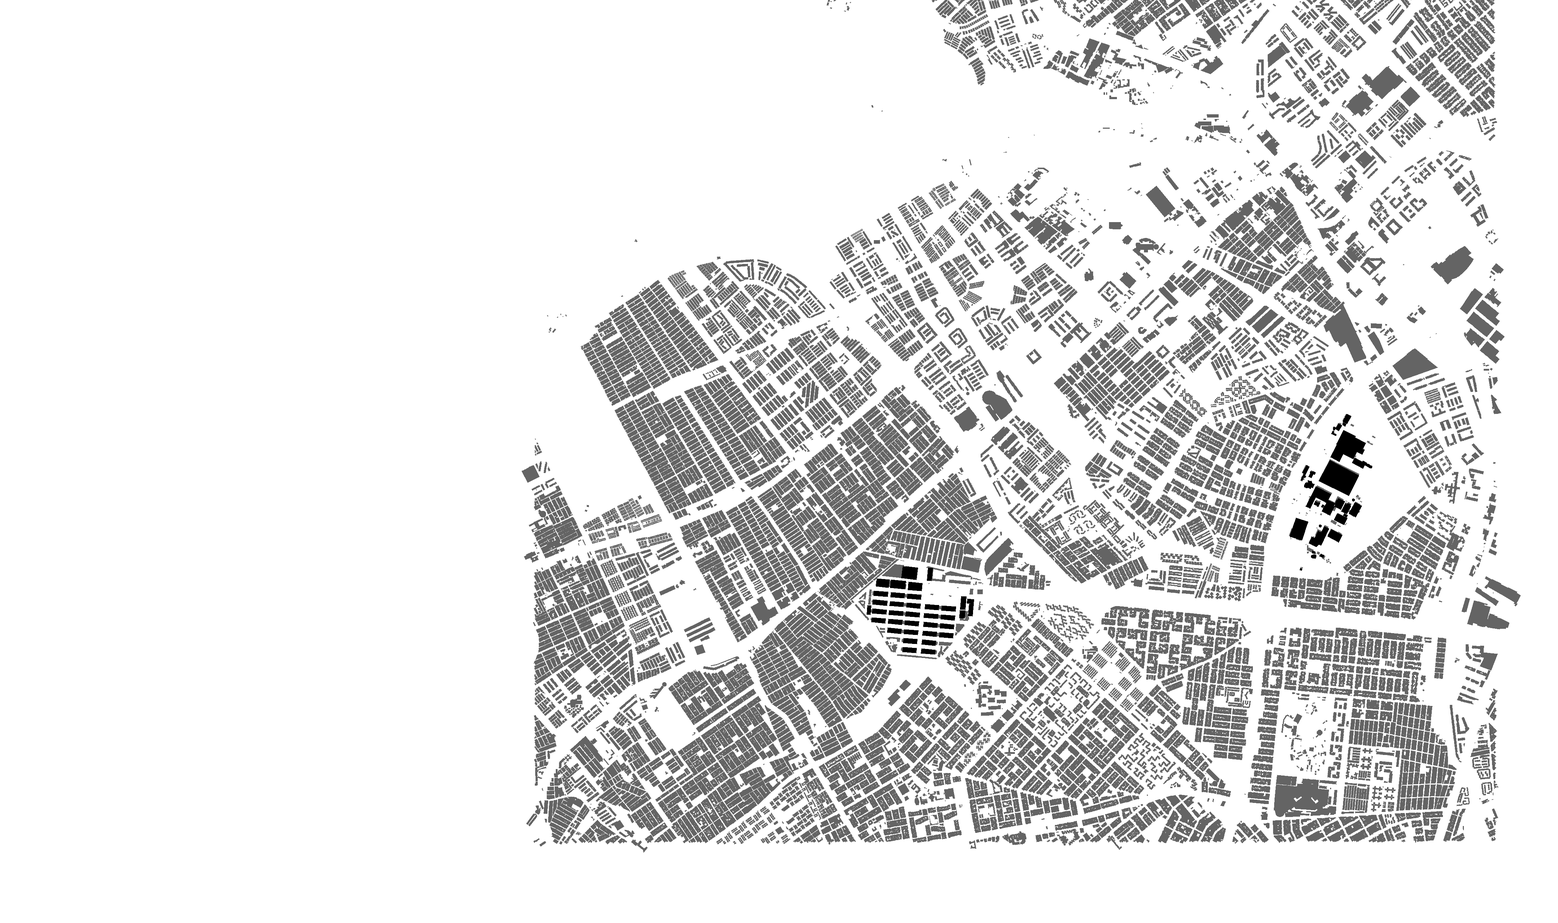
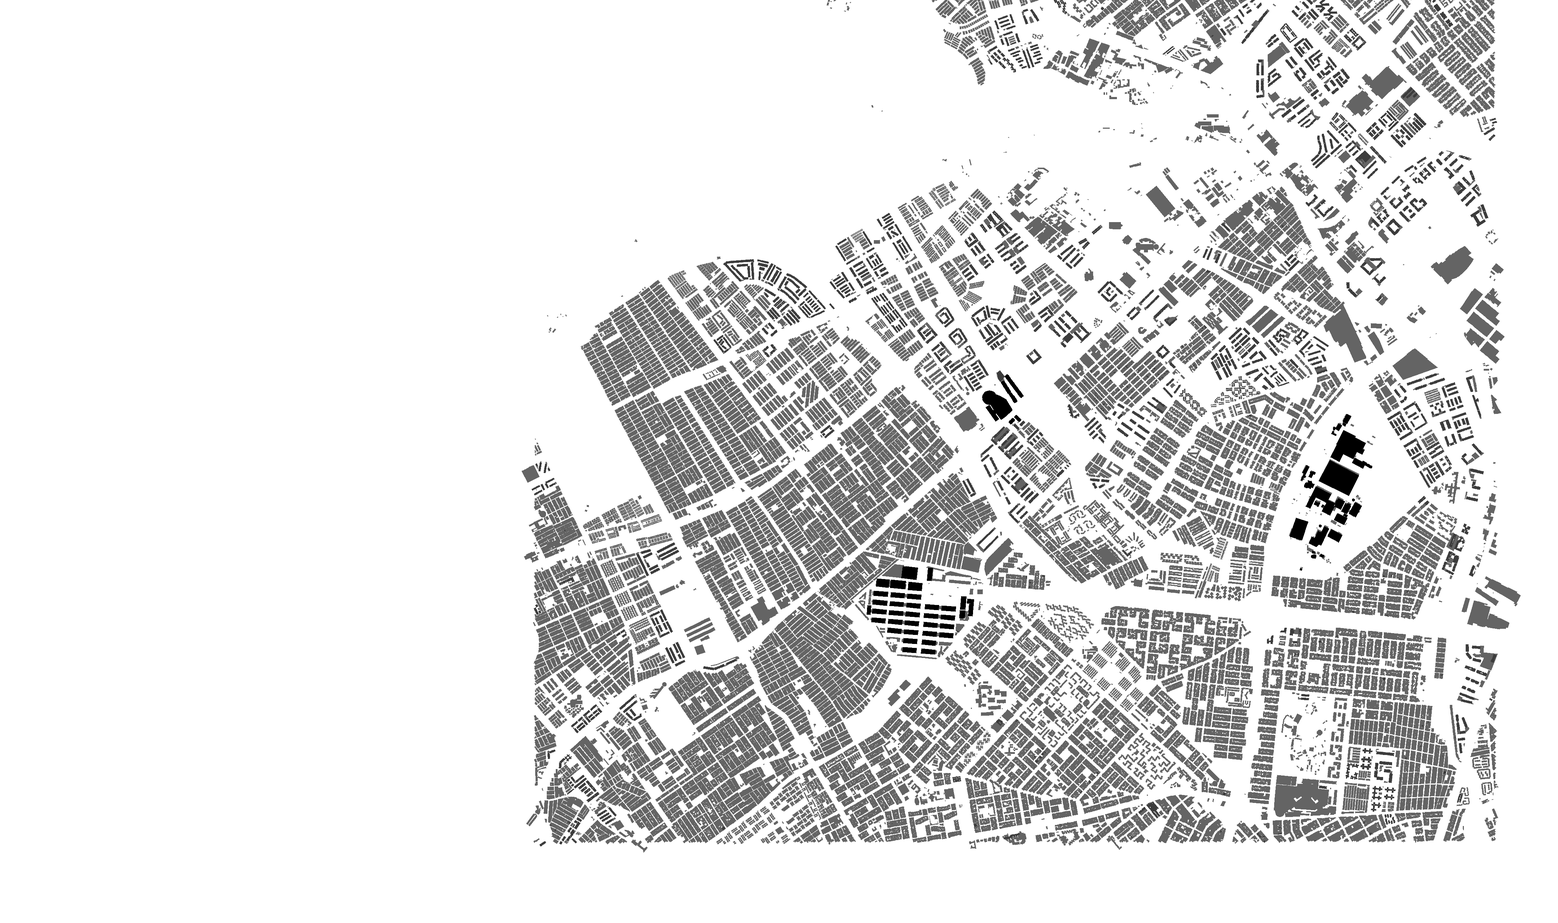
Foto real 3D por defecto (como God's Eye): casas, vias y arboles reales de la malla de Google con su profundidad; de lo propio quedan las torres con huerta, Bavaria, Corabastos y El Tintal; boton para volver al modelo y para prender los arboles modelados; foto base un poco menos saturada; sin huerta

diff --git a/index.html b/index.html
@@ -962,7 +962,7 @@ async function crearMallaGoogle(T) {
         // la cámara (la imagen no cambia: mismo punto en pantalla), así los edificios, carros, árboles y animales propios quedan siempre encima
         .replace('#include <project_vertex>', '#include <project_vertex>\nif (uEmpuje > 0.0) { float dl = max(length(mvPosition.xyz), 1.0); vec4 pE = projectionMatrix * vec4(mvPosition.xyz * (1.0 + uEmpuje / dl), 1.0); gl_Position.z = min(pE.z / pE.w, 0.99999) * gl_Position.w; }');
       sh.fragmentShader = sh.fragmentShader
-        .replace('#include <common>', '#include <common>\nvarying vec3 vWPm; uniform sampler2D uMask; uniform float uOn, uCut; uniform vec2 uLC, uDim; uniform vec4 uGrade; uniform vec3 uTint, uZona; uniform float uMonte;')
+        .replace('#include <common>', '#include <common>\nvarying vec3 vWPm; uniform sampler2D uMask; uniform float uOn, uCut; uniform vec2 uLC, uDim; uniform vec4 uGrade; uniform vec3 uTint, uZona; uniform float uMonte, uEmpuje;')
         // gradación tipo render de maqueta (Umbra): quita la bruma gris de la foto aérea, sube saturación y contraste y la calienta un poco
         .replace('#include <opaque_fragment>', `{
           vec3 c = max(outgoingLight - uGrade.w * vec3(0.030, 0.036, 0.048), 0.0) / (1.0 - uGrade.w * 0.04);
@@ -970,6 +970,7 @@ async function crearMallaGoogle(T) {
           c = max(mix(vec3(l), c, uGrade.x), 0.0);
           c += uGrade.w * vec3(0.026, 0.032, 0.046) * (1.0 - smoothstep(0.0, 0.16, l)); // sombras abiertas y azuladas (luz de cielo), no negras
           c = pow(c / 0.18, vec3(uGrade.y)) * 0.18 * uGrade.z * uTint;
+          if (uEmpuje > 0.0) { c = mix(vec3(dot(c, vec3(0.2126, 0.7152, 0.0722))), c, 0.86); outgoingLight = mix(vec3(dot(outgoingLight, vec3(0.2126, 0.7152, 0.0722))), outgoingLight, 0.86); } // Kennedy: un poco menos saturada
           outgoingLight = mix(outgoingLight, c, 1.0 - smoothstep(uZona.z, uZona.z + 350.0, distance(vWPm.xz, uZona.xy))); // afuera de la zona, la foto tal cual
           if (uMonte > 0.5) { // cerros: la foto aérea de lejos sale lavada (bruma de la toma): se le quita el velo y se recupera el verde del bosque y el páramo
             float alto = smoothstep(25.0, 140.0, vWPm.y) * smoothstep(1500.0, 4500.0, distance(vWPm.xz, uZona.xy));
@@ -984,7 +985,7 @@ async function crearMallaGoogle(T) {
           if (uOn > 0.5 && vWPm.y > 0.9 && distance(vWPm.xz, uZona.xy) < uZona.z) { // recorte de edificios de Google solo donde están los propios
             vec2 mu = vec2((vWPm.x + uLC.x) * uDim.x, 1.0 - (uLC.y - vWPm.z) * uDim.y);
             float mk = texture2D(uMask, mu).r; // 1 libre · 0,39 edificio genérico (corte en uCut) · 0 modelo detallado: Corabastos, Bavaria (corte a 0,9 m)
-            if (mu.x > 0.0 && mu.x < 1.0 && mu.y > 0.0 && mu.y < 1.0 && mk < 0.5 && (vWPm.y > uCut || mk < 0.2)) discard;
+            if (mu.x > 0.0 && mu.x < 1.0 && mu.y > 0.0 && mu.y < 1.0 && mk < 0.5 && (vWPm.y > uCut || mk < 0.2 || (mk < 0.3 && vWPm.y > 2.5))) discard; // 0,24: torre propia
           }`);
     };
     m.customProgramCacheKey = () => 'recorteHuellasG';
@@ -1021,8 +1022,19 @@ async function crearMallaGoogle(T) {
   // Kennedy (?modo=kennedy): TODO lo propio (edificios, calles, agua, árboles, estrategias) va SIEMPRE encima de la foto de Google: nada queda enterrado ni tapado
   if (REALISTA && !KEN) return;
   const cd = new THREE.Mesh(new THREE.PlaneGeometry(1, 1), new THREE.MeshBasicMaterial({ colorWrite: false, depthWrite: false }));
-  cd.frustumCulled = false; cd.renderOrder = -5; cd.onBeforeRender = (r) => r.clearDepth(); T.scene.add(cd);
+  cd.frustumCulled = false; cd.renderOrder = -5; cd.onBeforeRender = (r) => r.clearDepth(); T.scene.add(cd); T.borraProf = cd;
 }
+// Kennedy · FOTO REAL (por defecto, como God's Eye): la malla 3D de Google es el mundo, con sus casas, vías y árboles reales y su profundidad;
+// lo propio queda solo donde está la propuesta (Bavaria, Corabastos, Biblioteca El Tintal, torres con balcones, huertas). Apagado: el modelo de cajas.
+function fotoReal(on) {
+  T3.fotoReal = on;
+  if (T3.borraProf) T3.borraProf.visible = !on;
+  if (T3.maskU) { T3.maskU.uCut.value = on ? 1e5 : 2.5; T3.maskU.uEmpuje.value = on ? 0 : 18; }
+  if (T3.roofU) T3.roofU.uSoloAltos.value = on ? 1 : 0; // Foto real: de lo propio quedan solo las torres con huerta; las casas son las de la foto
+  for (const e of T3.edificios || []) for (const ch of e.mesh.children) ch.visible = !on; // tanques y antenas de las casas modeladas
+  for (const m of T3.viasMallas || []) m.visible = !on;
+}
+window.fotoReal = fotoReal;
 // huellas de los edificios del modelo dibujadas en un lienzo (blanco = libre, negro = edificio) en coordenadas del modelo, norte arriba
 const MASK = { XM: 10800, YM: 6400, RES: 2.5 };
 // edificios en binario (data3d/edif/*.bin, generados desde buildings.json): por edificio n.º de vértices, altura·10 y vértices en 0,25 m (el primero absoluto, los demás como diferencia)
@@ -1269,7 +1281,7 @@ async function initTodoReal() {
     // modelos reales (Poly Haven CC0): árboles 3D con LOD, pasto/plantas 3D y agua con mapa de normales
     T3.realista = REALISTA; // real3d.js: carros a tamaño real, apoyados en el asfalto y con sombra de contacto
     if (REALISTA && !LIVIANO && new URLSearchParams(location.search).get('ao') !== '0') crearPostproceso(T3).catch(e => console.warn('postproceso:', e)); // luz tipo render (oclusión ambiental)
-    try { T3.R = await import('./data3d/real3d.js?v=61'); T3.env = T3.R.makeEnv(renderer); T3.fleet = T3.R.createFleet(T3, T3.env); } catch (e) { console.warn('real3d:', e); T3.R = null; T3.env = null; T3.fleet = null; }
+    try { T3.R = await import('./data3d/real3d.js?v=62'); T3.env = T3.R.makeEnv(renderer); T3.fleet = T3.R.createFleet(T3, T3.env); } catch (e) { console.warn('real3d:', e); T3.R = null; T3.env = null; T3.fleet = null; }
     // el tráfico empieza a bajar YA (antes esperaba a edificios, vías y árboles): son pocos KB por trozo
     const pTraf = QUEST ? Promise.resolve(null) : buildTraffic(THREE).then(() => { marcarPaso('trafico'); return null; }, e => e); // Kennedy: también, con la simulación SUMO (miles de carros)
     if (QUEST) marcarPaso('trafico');
@@ -1290,7 +1302,7 @@ async function initTodoReal() {
     const deTintal = (TI, b) => { if (!TI) return false; const p = b.pts, n = p.length - 1; let x = 0, y = 0; for (let i = 0; i < n; i++) { x += p[i][0]; y += p[i][1]; } return enPoli(TI.zona_modelo, x / n, y / n); };
     const cargarEdif = async (f) => { const [BV, CO, TI] = await Promise.all([pBav, pCora, pTin]); return decodificarEdificios(EI, await (await fetch('data3d/edif/' + f)).arrayBuffer()).filter(b => enZona(b.pts[0][0], b.pts[0][1]) && !deBavaria(BV, b) && !deCora(CO, b) && !deTintal(TI, b)); }; // vista realista: solo la zona del proyecto
     const agregarHuellas = () => {}; // la máscara de huellas ya viene precalculada (data3d/edif/mascara*.png)
-    if (!GOOGLE && !(LIVIANO && !MEDIO)) pMalla.then(() => { if (T3.maskU) cargarMascara(T3, LIVIANO ? 'mascara_humedal.png?v=4' : 'mascara.png?v=4'); });
+    if (!GOOGLE && !(LIVIANO && !MEDIO)) pMalla.then(() => { if (T3.maskU) cargarMascara(T3, LIVIANO ? 'mascara_humedal.png?v=6' : 'mascara.png?v=6'); });
     let B = [];
     // edificios 3D propios (huellas y alturas reales) también en la vista fotorrealista: la malla de Google en Kennedy los trae
     // casi planos ("derretidos"); como en las maquetas de Umbra, se levantan volúmenes limpios y el techo toma el color de la foto aérea
@@ -1378,6 +1390,7 @@ async function initTodoReal() {
         T3.kenArboles = KEN; // simulador: copas opacas, especies de Bogotá y más árboles 3D reales, como el render de Unreal
         const TIN = await pTin; if (TIN && TIN.zona_modelo) TT = { ...TT, t: TT.t.filter(t => !enPoli(TIN.zona_modelo, t[0], t[1])) }; // sin árboles bajo las palmas de la plaza ni en la huerta de la Biblioteca El Tintal
         T3.trees = await T3.R.buildTrees(T3, ZON ? { ...TT, t: TT.t.filter(t => enZona(t[0], t[1], 100)) } : TT, W, lw, T3.env);
+        if (KEN && T3.trees && T3.trees.ver) T3.trees.ver(false); // Kennedy: los árboles reales son los de la foto 3D de Google (literalmente reales)
         T3.counts.t = T.t.length;
         say('🌳 Árboles reales 3D cargados', 3000);
       } catch (e) { console.warn('arboles reales:', e); T3.trees = null; try { await buildTreesReal(THREE, T); } catch (e2) { console.warn('trees:', e2); } }
@@ -1613,7 +1626,7 @@ function materialEdificios(THREE) {
   if (T3.matEdif) return T3.matEdif;
   const mat = LIVIANO ? new THREE.MeshLambertMaterial({ vertexColors: true, side: THREE.DoubleSide, flatShading: true }) // celular/gafas: material barato
     : new THREE.MeshStandardMaterial({ vertexColors: true, side: THREE.DoubleSide, flatShading: true, roughness: 0.86, metalness: 0, envMap: T3.env || null, envMapIntensity: 0.55 });
-  T3.roofU = { uOrto: { value: null }, uOrtoVP: { value: new THREE.Matrix4() }, uOrtoOn: { value: 0 }, uNoche: { value: 0 }, uLuces: { value: 0.5 } }; // uNoche/uLuces: ventanas encendidas (data3d/cielo.js)
+  T3.roofU = { uOrto: { value: null }, uOrtoVP: { value: new THREE.Matrix4() }, uOrtoOn: { value: 0 }, uNoche: { value: 0 }, uLuces: { value: 0.5 }, uSoloAltos: { value: 0 } }; // uNoche/uLuces: ventanas encendidas (data3d/cielo.js)
   if (REALISTA) {
     const tx = texturasFachada(THREE, T3.renderer);
     Object.assign(T3.roofU, { tFachB: { value: tx.ladrillo.c }, tFachP: { value: tx.pintado.c }, tFachBN: { value: tx.ladrillo.n }, tFachPN: { value: tx.pintado.n }, tFachBR: { value: tx.ladrillo.r }, tFachPR: { value: tx.pintado.r },
@@ -1657,8 +1670,9 @@ function materialEdificios(THREE) {
       .replace('#include <common>', '#include <common>\nattribute vec4 wall;\nattribute float bord;\nattribute float bid;\nvarying float vBid;\nvarying float vBd;\nflat varying vec4 vWl;\nflat varying vec2 vWs;\nvarying vec3 vWP;')
       .replace('#include <begin_vertex>', '#include <begin_vertex>\nvec4 wpv = modelMatrix * vec4(position, 1.0); vWP = wpv.xyz; vWs = wpv.xz; vWl = wall; vBd = bord; vBid = bid;');
     sh.fragmentShader = sh.fragmentShader
-      .replace('#include <common>', '#include <common>\nflat varying vec4 vWl;\nflat varying vec2 vWs;\nvarying vec3 vWP;\nvarying float vBd;\nvarying float vBid;\nuniform sampler2D uOrto;\nuniform mat4 uOrtoVP;\nuniform float uOrtoOn, uNoche, uLuces;' + (FACHADA ? '\nuniform sampler2D tFachB, tFachP, tFachBN, tFachPN, tFachBR, tFachPR, tLadC, tLadN, tLadR;\nuniform float uLadOn;' : ''))
+      .replace('#include <common>', '#include <common>\nflat varying vec4 vWl;\nflat varying vec2 vWs;\nvarying vec3 vWP;\nvarying float vBd;\nvarying float vBid;\nuniform sampler2D uOrto;\nuniform mat4 uOrtoVP;\nuniform float uOrtoOn, uNoche, uLuces, uSoloAltos;' + (FACHADA ? '\nuniform sampler2D tFachB, tFachP, tFachBN, tFachPN, tFachBR, tFachPR, tLadC, tLadN, tLadR;\nuniform float uLadOn;' : ''))
       .replace('#include <color_fragment>', `#include <color_fragment>
+      if (uSoloAltos > 0.5 && abs(vWl.w) < 16.5) discard; // Foto real: las casas y bloques bajos son los de la foto de Google
       vec2 gTuv = vec2(0.0), gUvM = vec2(0.0); float gLad = 0.0, gF = 0.0, gMuro = 0.0, gWin = 0.0; vec3 gWinC = vec3(0.0); // coordenadas de la fachada, para la rugosidad y las normales PBR
       {
         ${FACHADA || ''}
@@ -1751,6 +1765,13 @@ function materialEdificios(THREE) {
 // gris o gris verdosa (videos de dron del humedal). Se arma en los bloques casi rectangulares y alargados: cumbrera sobre el lado largo,
 // pendiente de ~20°, alero de 30 cm y los dos piñones del color del muro.
 const LAMINAS = [[0.47, 0.5, 0.5], [0.4, 0.46, 0.44], [0.53, 0.54, 0.54], [0.36, 0.4, 0.42], [0.55, 0.36, 0.3]].map(c => c.map(x => Math.pow(x, 2.2)));
+window.esDosAguas = (W, h) => { // misma prueba que techoDosAguas (cubierta inclinada: sin huerta encima)
+  const n = W.length; if (!REALISTA || h < 5 || h > 22 || n < 4 || h >= 16.5) return false; let L = 0, ux = 1, uz = 0;
+  for (let i = 0; i < n; i++) { const a = W[i], b = W[(i + 1) % n], l = Math.hypot(b[0] - a[0], b[1] - a[1]); if (l > L) { L = l; ux = (b[0] - a[0]) / l; uz = (b[1] - a[1]) / l; } }
+  const vx = -uz, vz = ux; let u0 = 1e9, u1 = -1e9, v0 = 1e9, v1 = -1e9, area = 0;
+  for (let i = 0; i < n; i++) { const p = W[i], q = W[(i + 1) % n], u = p[0] * ux + p[1] * uz, v = p[0] * vx + p[1] * vz; u0 = Math.min(u0, u); u1 = Math.max(u1, u); v0 = Math.min(v0, v); v1 = Math.max(v1, v); area += p[0] * q[1] - q[0] * p[1]; }
+  const Lu = u1 - u0, Lv = v1 - v0; return !(Math.abs(area) / 2 / (Lu * Lv) < 0.86 || Lu / Lv < 1.3 || Lv < 6 || Lv > 22);
+};
 function techoDosAguas(W, h, bi, col, P, C, I, WL, vc) {
   const n = W.length; if (h < 5 || h > 22 || n < 4) return vc;
   let L = 0, ux = 1, uz = 0; // eje largo = el muro más largo
@@ -2817,7 +2838,7 @@ function buildRoads(THREE, N) {
   const po = (m, f) => { m.polygonOffset = true; m.polygonOffsetFactor = -f; m.polygonOffsetUnits = -f; };
   po(mVia, 2); po(mAcera, 1);
   const mRaya = new THREE.MeshBasicMaterial({ color: 0xf2f0e6, side: THREE.DoubleSide }); po(mRaya, 4);
-  mk(GA, mAcera, true, 1); mk(GS, mAcera, false, 1); mk(GV, mVia, true, 2); mk(GR, mRaya, true, 3);
+  T3.viasMallas = [mk(GA, mAcera, true, 1), mk(GS, mAcera, false, 1), mk(GV, mVia, true, 2), mk(GR, mRaya, true, 3)];
   if (GP.P.length) { const g = new THREE.BufferGeometry(); g.setAttribute('position', new THREE.Float32BufferAttribute(GP.P, 3)); g.setIndex(GP.I); g.computeVertexNormals();
     const m = new THREE.Mesh(g, new THREE.MeshStandardMaterial({ color: 0xb9b6ae, roughness: 0.85 })); m.castShadow = !LIVIANO; m.receiveShadow = !LIVIANO; T3.scene.add(m); } // concreto de los puentes
   T3.counts.vias = N.edges.length;
@@ -3346,7 +3367,7 @@ $('b-hd').onclick = async () => {
 if (KEN) { // simulación de Kennedy (data3d/giro_sim.js) dentro de la maqueta
   const listoK = () => T3 && T3.ready && T3.net ? Promise.resolve() : new Promise(r => setTimeout(() => r(listoK()), 400));
   // Biblioteca El Tintal (modelo propio) y canchas reales de OpenStreetMap: no dependen de la simulación, se cargan en paralelo
-  listoK().then(() => import('./data3d/tintal.js?v=6')).then(m => m.iniciarTintal({ THREE: T3.THREE, T3, OX: 2095.67, OZ: -109.06, Y0: 0, movil: MOVIL })).catch(e => console.warn('Biblioteca El Tintal:', e));
+  listoK().then(() => import('./data3d/tintal.js?v=7')).then(m => m.iniciarTintal({ THREE: T3.THREE, T3, OX: 2095.67, OZ: -109.06, Y0: 0, movil: MOVIL })).catch(e => console.warn('Biblioteca El Tintal:', e));
   listoK().then(() => import('./data3d/canchas.js?v=2')).then(m => m.iniciarCanchas({ THREE: T3.THREE, T3, OX: 2095.67, OZ: -109.06, Y0: 0, movil: MOVIL })).catch(e => console.warn('canchas:', e));
   const FAUNA_RED = ['tingua', 'garza', 'pato', 'monjita', 'copeton', 'mirla', 'colibri']; // las mueve la red biótica
   let EST = null; // estrategias de la propuesta (data3d/estrategias.js): reemplazan las convenciones P1-P4
@@ -3364,6 +3385,16 @@ if (KEN) { // simulación de Kennedy (data3d/giro_sim.js) dentro de la maqueta
     .then(() => { // botón para apagar y prender la foto 3D de Google (el suelo de base)
       const ag = document.getElementById('gs-ag');
       if (ag && !document.getElementById('fb-btn')) { const b = document.createElement('button'); b.id = 'fb-btn'; b.className = 'on'; b.textContent = 'Foto base'; b.title = 'Apaga o prende la foto 3D de Google (el suelo de base)'; b.style.cssText = 'width:100%;margin-top:6px'; b.onclick = () => { const on = !b.classList.contains('on'); b.classList.toggle('on', on); if (T3.tiles) T3.tiles.group.visible = on; }; ag.parentElement.insertAdjacentElement('afterend', b); }
+      if (!document.getElementById('fr-btn')) { // vista: foto 3D real (God's Eye) o modelo de cajas
+        const fb = document.getElementById('fb-btn'), b = document.createElement('button'); b.id = 'fr-btn'; b.className = 'on'; b.textContent = 'Foto real 3D'; b.title = 'Prendido: casas, vías y árboles reales de la foto 3D (como God\'s Eye). Apagado: modelo de volúmenes'; b.style.cssText = 'width:100%;margin-top:6px';
+        b.onclick = () => { const on = !b.classList.contains('on'); b.classList.toggle('on', on); fotoReal(on); };
+        (fb || ag.parentElement).insertAdjacentElement('afterend', b); fotoReal(true);
+      }
+      if (!document.getElementById('ar-btn')) { // árboles: por defecto los reales de la foto 3D de Google (como God's Eye); el botón trae los modelos 3D
+        const fb = document.getElementById('fb-btn'), b = document.createElement('button'); b.id = 'ar-btn'; b.textContent = 'Árboles modelo 3D'; b.title = 'Por defecto se ven los árboles reales de la foto 3D; esto prende los árboles modelados'; b.style.cssText = 'width:100%;margin-top:6px';
+        b.onclick = () => { const on = !b.classList.contains('on'); b.classList.toggle('on', on); if (T3.trees && T3.trees.ver) T3.trees.ver(on); };
+        (fb || ag.parentElement).insertAdjacentElement('afterend', b);
+      }
       if (!document.getElementById('vi-btn')) { // Visión: la propuesta encendida sobre el territorio oscuro (data3d/vision.js)
         const fb = document.getElementById('fb-btn'), b = document.createElement('button'); b.id = 'vi-btn'; b.textContent = '✦ Visión'; b.title = 'Ver la propuesta: Bavaria Común, Corabastos, red de huertas y humedales'; b.style.cssText = 'width:100%;margin-top:6px;background:linear-gradient(100deg,#2a1d6b,#5b3fd6);color:#fff;border:1px solid #8b74ff;letter-spacing:.2em';
         let V = null, pV = null;

diff --git a/data3d/huertas_hidro.js b/data3d/huertas_hidro.js
@@ -73,9 +73,11 @@ export async function iniciarHidroponia({ THREE, T3, techos, movil = false }) {
     for (let i = 0; i < n; i++) { const p = W[i], q = W[(i + 1) % n]; A += p[0] * q[1] - q[0] * p[1]; cx += p[0]; cz += p[1]; const l = Math.hypot(q[0] - p[0], q[1] - p[1]); if (l > Lmax) { Lmax = l; ang = Math.atan2(q[1] - p[1], q[0] - p[0]); } }
     cx /= n; cz /= n; const area = Math.abs(A) / 2, y = t.h + 0.32; // sobre la capa de la cubierta de E8 (que se pinta 0,3 m sobre el techo)
     if (area < 40) return;
+    const inclinado = window.esDosAguas && window.esDosAguas(W.map(q => [q[0], q[1]]), t.h); // casas a dos aguas: sin huerta
+    if (inclinado) return;
     const ux = Math.cos(ang), uz = Math.sin(ang), vx = -uz, vz = ux, rot = -ang;
     // rejilla de racks a lo largo del eje largo: filas cada 2,6 m, racks de 4 m cada 4,8 m, a más de 1,2 m del antepecho
-    let puestos = 0; const max = Math.min(movil ? 10 : 34, Math.floor(area / 22)), tunel = area > 450 && rnd() < 0.45;
+    let puestos = 0; const conCamas = t.h >= 16.5; /* las terrazas altas ya tienen camas de cultivo (huertas_techo.js) */ const max = conCamas ? 0 : Math.min(movil ? 10 : 34, Math.floor(area / 22)), tunel = area > 450 && rnd() < 0.45;
     for (let v = -40; v <= 40 && puestos < max; v += 2.6) for (let u = -60; u <= 60 && puestos < max; u += 4.8) {
       const x = cx + u * ux + v * vx, z = cz + u * uz + v * vz;
       if (!enPoli(W, x, z) || distBorde(W, x, z) < (tunel && puestos < 2 ? 2.6 : 2.3)) continue;
@@ -86,7 +88,7 @@ export async function iniciarHidroponia({ THREE, T3, techos, movil = false }) {
     }
     if (puestos) { const x = cx - (ux + vx) * 1.2, z = cz - (uz + vz) * 1.2; if (enPoli(W, x, z)) meter('tanque', x, y, z, 0); }
     // balcones: edificios de 4 pisos o más, en los lados largos, una jardinera cada ~5 m en pisos alternos
-    if (t.h >= 11) {
+    if (t.h >= 16.5) { // balcones de las torres (las que se modelan también en Foto real)
       const ccw = A > 0;
       for (let i = 0; i < n; i++) {
         const p = W[i], q = W[(i + 1) % n], L = Math.hypot(q[0] - p[0], q[1] - p[1]); if (L < 7) continue;

diff --git a/data3d/estrategias.js b/data3d/estrategias.js
@@ -51,9 +51,8 @@ export async function iniciarEstrategias({ THREE, T3, lw, Y0 = 2.0, dentro = nul
   }
   let HIDRO = null, HIDRO_P = null; // huertas hidropónicas de E8 (se arman la primera vez que se prende E8)
   const hidroponia = (on) => {
-    if (T3.huertas && T3.huertas.grupo) T3.huertas.grupo.visible = !on; // con E8 prendida, las terrazas de camas de tierra (huertas_techo.js) se vuelven hidropónicas
     if (HIDRO) { HIDRO.ver(on); return; } if (!on) return;
-    if (!HIDRO_P) HIDRO_P = import('./huertas_hidro.js?v=2').then(m => { const e = D.estrategias.find(x => x.id === 'E8'), c = e && e.capas.find(x => /cubiertas/i.test(x.n)); if (!c) return null;
+    if (!HIDRO_P) HIDRO_P = import('./huertas_hidro.js?v=3').then(m => { const e = D.estrategias.find(x => x.id === 'E8'), c = e && e.capas.find(x => /cubiertas/i.test(x.n)); if (!c) return null;
       const techos = (c.techos || []).map(t => ({ W: W2(t.slice(0, -1)), h: t[t.length - 1] / 10 })).filter(t => !dentro || dentro(t.W[0][0], t.W[0][1]));
       return m.iniciarHidroponia({ THREE, T3, techos, movil }); }).then(h => { HIDRO = h; if (h) h.ver(true); return h; }).catch(er => console.warn('huertas hidropónicas:', er));
   };

diff --git a/data3d/vision.js b/data3d/vision.js
@@ -196,8 +196,9 @@ body.vision #gs-der,body.vision #hid-red,body.vision .es-et,body.vision #bt-pan,
     paso();
   }
   const cambiar = (obj, mat) => obj && obj.traverse(o => { if (o.isMesh) { if (!guardado.has(o)) guardado.set(o, o.material); o.material = mat; } });
-  let on = false;
+  let on = false, visReal = false;
   function ver(v) {
+    if (v) { visReal = !!T3.fotoReal; if (window.fotoReal) window.fotoReal(false); } // la visión se dibuja sobre el modelo de volúmenes
     on = v; grupo.visible = v; T3.vision = v; document.body.classList.toggle('vision', v); panel.style.display = v ? 'block' : 'none';
     const sc = T3.scene, U = T3.cielo && T3.cielo.U;
     if (v) {
@@ -226,6 +227,7 @@ body.vision #gs-der,body.vision #hid-red,body.vision .es-et,body.vision #bt-pan,
       if (T3.trees && T3.trees.tinte) T3.trees.tinte(null);
       if (edges) edges.visible = false;
       if (T3.cielo && T3.cielo.refrescar) T3.cielo.refrescar();
+      if (visReal && window.fotoReal) window.fotoReal(true);
     }
     for (const e of ETQ) e.d.style.display = 'none';
   }

diff --git a/data3d/real3d.js b/data3d/real3d.js
@@ -468,6 +468,7 @@ export async function buildTrees(T3, T, W, lw, env, Pq, Net) {
   };
   api.update({ position: new THREE.Vector3(1e8, 0, 1e8) }, true);
   // árboles semitransparentes (vista de simulación: deja ver las calles y los agentes debajo de las copas)
+  api.ver = (on) => { api.visible = on; for (const l of lod) for (const m of [...l.L0, ...l.L1]) m.visible = on; for (const m of [...lejos, ...techos, ...bajos]) m.visible = on; };
   // tinte de todo el arbolado (modo Visión: copas oscuras azul verdoso con brillo propio); null restaura
   api.tinte = (hex, emis) => {
     const mats = new Set();

diff --git a/tools/mascara_build.py b/tools/mascara_build.py
@@ -29,7 +29,11 @@ def propios():
 
 def propios_suelo():  # se recorta solo lo que Google levanta (palmas y edificio derretidos), no la foto del piso: nivel de edificio genérico
     T = json.load(open(os.path.join(D, 'tintal.json'), encoding='utf-8'))  # Biblioteca El Tintal y su plaza de palmas (data3d/tintal.js)
-    return [Polygon(T['zona_modelo'])]
+    P = [Polygon(T['zona_modelo'])]
+    for b in json.load(open(os.path.join(D, 'buildings.json'))):  # torres de ladrillo con balcones (data3d/torres_balcones.js): TORRES_FOTO de index.html
+        p = b['pts']
+        if b['h'] >= 30 and len(p) > 3 and math.hypot(sum(q[0] for q in p) / len(p) - 7024.1, sum(q[1] for q in p) / len(p) - 3655.4) < 180: P.append(Polygon(p).buffer(3))
+    return P
 
 def mascara(B, salida):
     im = Image.new('L', (W, H), 255)
@@ -42,10 +46,11 @@ def mascara(B, salida):
         xs = [q[0] for q in p]; ys = [q[1] for q in p]
         if (max(xs) - min(xs)) < 2 and (max(ys) - min(ys)) < 2 and b['h'] <= 3: continue  # la misma basura que descarta buildChunks
         poly = [(x / R, (YM - y) / R) for x, y in p]
-        dr.polygon(poly, fill=100, outline=100, width=2)  # el borde agranda cada huella ~2,5 m, como antes
+        alto = b['h'] >= 16.5  # torres con huerta en la terraza: en Foto real se dibuja el modelo propio y se recorta Google (nivel 60)
+        dr.polygon(poly, fill=60 if alto else 100, outline=60 if alto else 100, width=2)  # el borde agranda cada huella ~2,5 m, como antes
         n += 1
     for pg in propios_suelo():
-        dr.polygon([(x / R, (YM - y) / R) for x, y in pg.exterior.coords], fill=100, outline=100, width=1)
+        dr.polygon([(x / R, (YM - y) / R) for x, y in pg.exterior.coords], fill=0, outline=0, width=1)  # modelo propio: Google se recorta desde 0,9 m
     for pg in propios():
         dr.polygon([(x / R, (YM - y) / R) for x, y in pg.exterior.coords], fill=0, outline=0, width=1)
     im.save(salida, optimize=True)
